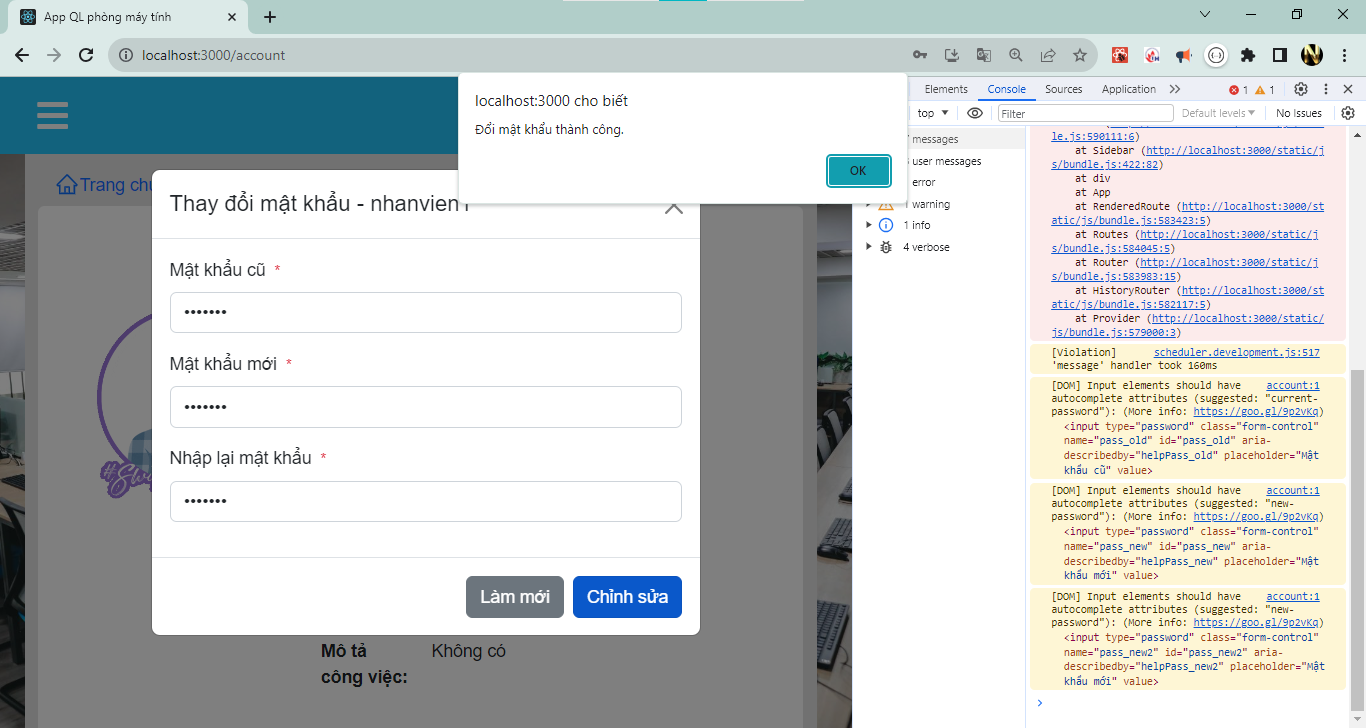
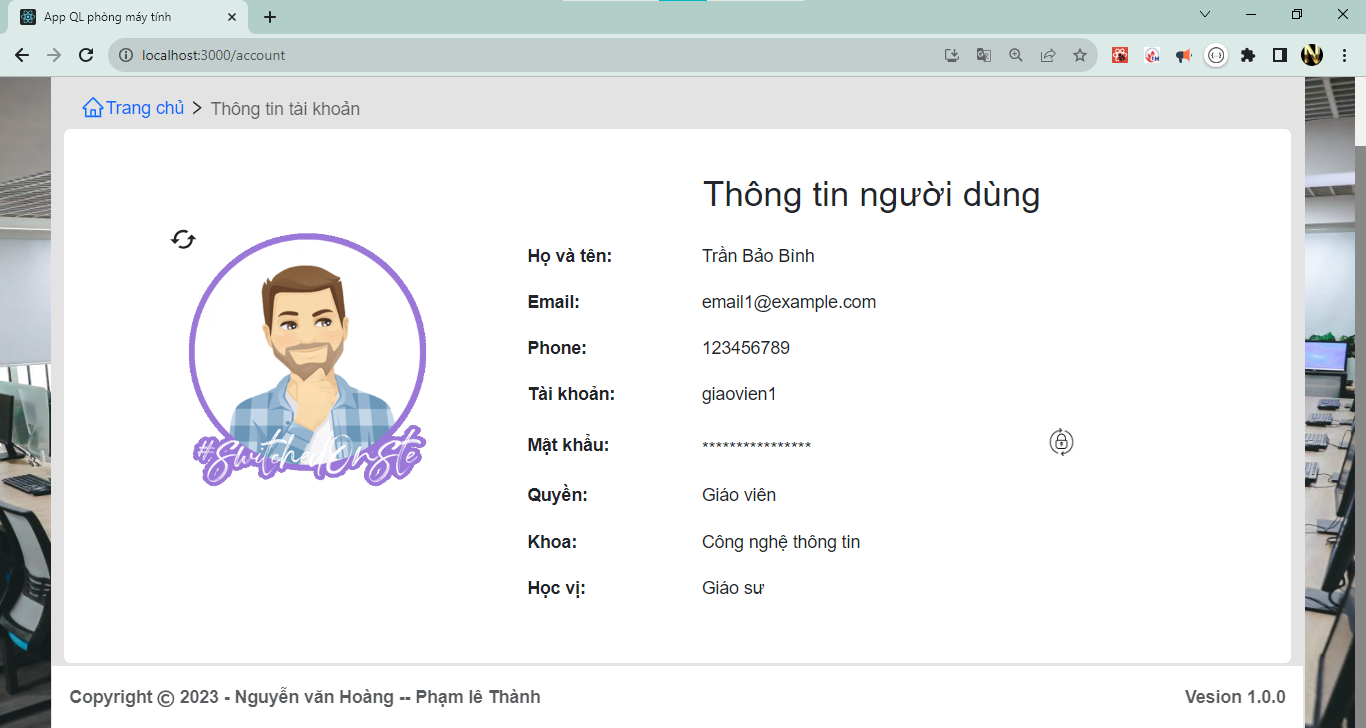
update PageProfile: add changeImage

diff --git a/src/pages/PageProfile/PageProfile.jsx b/src/pages/PageProfile/PageProfile.jsx
@@ -1,11 +1,17 @@
-import React from "react";
+import React, { useState } from "react";
 import { useSelector } from "react-redux";
 import Footer from "../../components/common/Footer/Footer";
 import NavTab from "../../components/common/NavTab/NavTab";
 import ModalChangePass from "./ModalChangePass";
 
+//
+import {MdOutlineCached} from 'react-icons/md'
+
 export default function PageProfile() {
   let { userLogin } = useSelector((state) => state.userReducer);
+
+  //
+  let [btnReloadImg, setBtnReloadImg] = useState(true);
 
   //Render
   const renderThongTin = () => {
@@ -178,20 +184,27 @@ export default function PageProfile() {
 
             {/*  */}
             <div className="bg-white rounded p-3" style={{ height: "82vh" }}>
-              <div className="row px-4 py-3">
-                <div className="col-sm-4 ">
+              <div className="row px-5 py-3">
+                <div className="col-sm-4 d-flex justify-content-center" >
                   {/* image */}
-                  <div style={{ maxWidth: "250px", paddingTop: "50px" }}>
+                  <div style={{ maxWidth: "250px", paddingTop: "50px", position:'relative' }}>
                     {/* https://media.giphy.com/media/Q5KSkuAJtAPAGrfE0o/giphy.gif */}
                     <img
-                      src="https://media.giphy.com/media/MXuv4E0gstVysWzBOq/giphy.gif"
+                      src={btnReloadImg?"https://media.giphy.com/media/MXuv4E0gstVysWzBOq/giphy.gif":"https://media.giphy.com/media/Q5KSkuAJtAPAGrfE0o/giphy.gif"}
                       alt="..."
                       width={"100%"}
-                    />
+                    >
+                    </img>
+                    {/*  */}
+                      <MdOutlineCached 
+                      onClick={() => {setBtnReloadImg(!btnReloadImg)}} 
+                      style={{position:'absolute', top:55, left:0, cursor:'pointer'}} 
+                      size={26} 
+                       />
                   </div>
                 </div>
                 {/*  */}
-                <div className="col-sm-8 p-2">
+                <div className="col-sm-8 p-2 ps-4">
                   <h2 className="text-center mb-3">Thông tin người dùng</h2>
                   {renderThongTin()}
                 </div>

diff --git a/src/pages/PageProfile/ModalChangePass.jsx b/src/pages/PageProfile/ModalChangePass.jsx
@@ -97,6 +97,11 @@ export default function ModalChangePass(props) {
       dispatch(updateTaiKhoan({...taiKhoan, matKhau: password.pass_new}) );
       alert('Đổi mật khẩu thành công.');
 
+      setPassword({
+        pass_old: "",
+        pass_new: "",
+        pass_new2: "",
+      });
     }
     // false
   };
